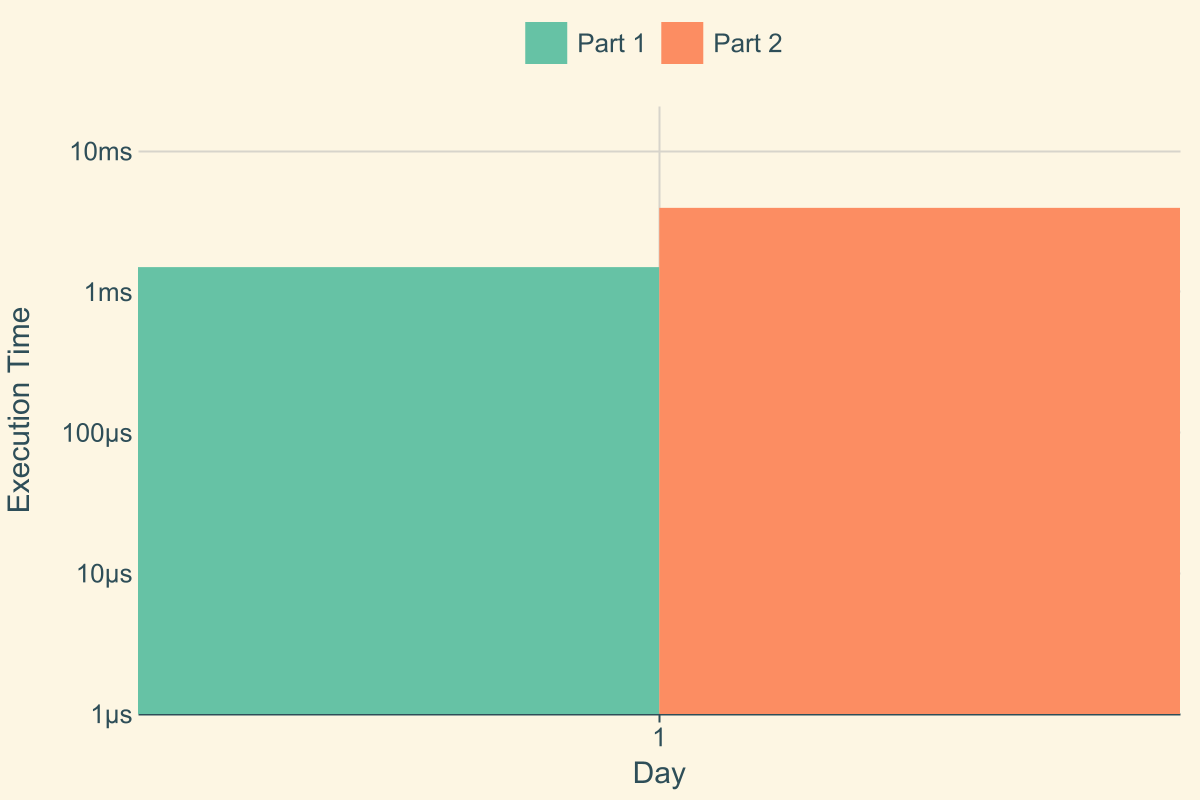
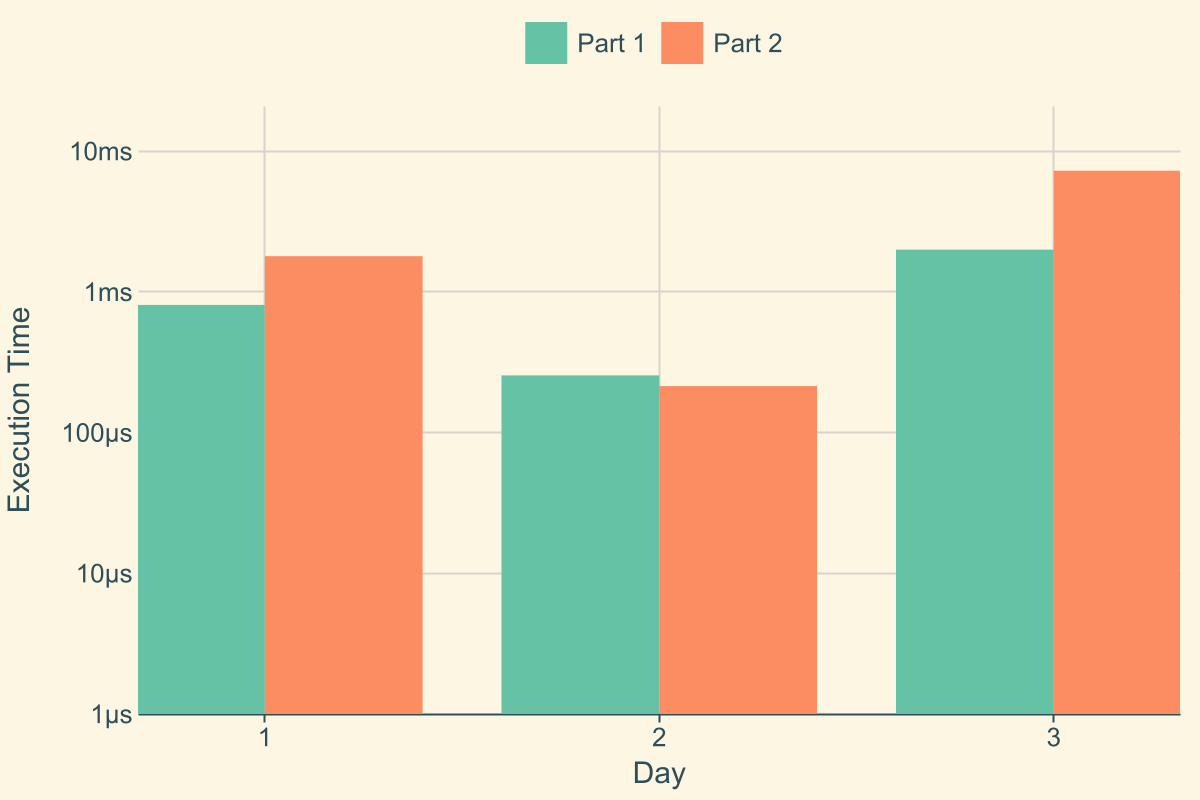
2, 3

Changed region(s): [[0.0925, 0.1875, 0.9867, 0.9375], [0.5242, 0.9062, 0.555, 0.9375]]

diff --git a/src/day03.rs b/src/day03.rs
@@ -1,0 +1,177 @@
+use std::collections::{HashMap, HashSet};
+use std::ops::{Add, Sub};
+
+use crate::harness::{Day, Part};
+
+pub fn day03() -> Day<i32, i32> {
+    Day::new(3, Box::new(Part1 {}), Box::new(Part2 {}))
+}
+
+pub struct Part1;
+
+impl Part<i32> for Part1 {
+    fn expect_test(&self) -> i32 {
+        4361
+    }
+
+    fn solve(&self, input: &[String]) -> i32 {
+        Map::from(input)
+            .get_parts_and_nonparts()
+            .iter()
+            .filter(|p| p.has_parts())
+            .map(|p| p.number)
+            .sum()
+    }
+}
+
+pub struct Part2;
+
+impl Part<i32> for Part2 {
+    fn expect_test(&self) -> i32 {
+        467835
+    }
+
+    fn solve(&self, input: &[String]) -> i32 {
+        let parts = Map::from(input).get_parts_and_nonparts();
+
+        parts.iter()
+            .flat_map(|p|
+                p.parts.iter()
+                    .clone()
+                    .filter(|&(_, part)| *part == '*')
+                    .map(|(&pos, _)| pos)
+            )
+            .collect::<HashSet<_>>()
+            .iter()
+            .map(|g|
+                parts.iter()
+                    .filter(|p| p.parts.contains_key(g))
+                    .collect::<Vec<_>>()
+            )
+            .filter(|parts| parts.len() == 2)
+            .map(|parts| parts[0].number * parts[1].number)
+            .sum()
+    }
+}
+
+struct Map {
+    raw: HashMap<Vec2, char>,
+    width: usize,
+    height: usize,
+}
+
+impl Map {
+    fn new(raw: HashMap<Vec2, char>, width: usize, height: usize) -> Self {
+        Self { raw, width, height }
+    }
+
+    fn get_parts_and_nonparts(&self) -> Vec<PartNumber> {
+        let mut current_number = String::new();
+        let mut current_parts = HashMap::new();
+
+        let mut parts = Vec::new();
+
+        for y in 0..self.height {
+            // +1 to the right edge so numbers are terminated without checking after the loop
+            for x in 0..=self.width {
+                let cur_pos = p(x as i32, y as i32);
+                let possible_cur = self.raw.get(&cur_pos);
+
+                if possible_cur.is_some() && possible_cur.unwrap().is_numeric() {
+                    let cur = *possible_cur.unwrap();
+                    current_number.push(cur);
+
+                    for d in Vec2::DIRECTIONS {
+                        let part_pos = cur_pos + d;
+                        let possible_part = self.raw.get(&part_pos);
+
+                        if let Some(&part) = possible_part {
+                            if !part.is_numeric() && part != '.' {
+                                current_parts.insert(part_pos, part);
+                            }
+                        }
+                    }
+                } else if !current_number.is_empty() {
+                    parts.push(PartNumber::new(current_number.parse::<i32>().unwrap(), current_parts));
+                    current_number = String::new();
+                    current_parts = HashMap::new();
+                }
+            }
+        }
+
+        parts
+    }
+}
+
+impl From<&[String]> for Map {
+    fn from(value: &[String]) -> Self {
+        let mut result = HashMap::new();
+
+        value.iter().enumerate().for_each(|(y, arr)| {
+            arr.chars().enumerate().for_each(|(x, c)| {
+                result.insert(p(x as i32, y as i32), c);
+            })
+        });
+
+        Map::new(result, value[0].len(), value.len())
+    }
+}
+
+const fn p(x: i32, y: i32) -> Vec2 {
+    Vec2::new(x, y)
+}
+
+#[derive(Debug, Copy, Clone, Hash, Eq, PartialEq)]
+struct Vec2 {
+    x: i32,
+    y: i32,
+}
+
+impl Vec2 {
+    pub const NORTH: Self = p(0, -1);
+    pub const NORTH_EAST: Self = p(1, -1);
+    pub const EAST: Self = p(1, 0);
+    pub const SOUTH_EAST: Self = p(1, 1);
+    pub const SOUTH: Self = p(0, 1);
+    pub const SOUTH_WEST: Self = p(-1, 1);
+    pub const WEST: Self = p(-1, 0);
+    pub const NORTH_WEST: Self = p(-1, -1);
+
+    pub const DIRECTIONS: [Self; 8] = [Self::NORTH, Self::NORTH_EAST, Self::EAST, Self::SOUTH_EAST, Self::SOUTH, Self::SOUTH_WEST, Self::WEST, Self::NORTH_WEST, ];
+
+    pub const fn new(x: i32, y: i32) -> Self {
+        Self { x, y }
+    }
+}
+
+impl Add<Vec2> for Vec2 {
+    type Output = Self;
+
+    fn add(self, rhs: Vec2) -> Self::Output {
+        p(self.x + rhs.x, self.y + rhs.y)
+    }
+}
+
+impl Sub<Vec2> for Vec2 {
+    type Output = Self;
+
+    fn sub(self, rhs: Vec2) -> Self::Output {
+        p(self.x - rhs.x, self.y - rhs.y)
+    }
+}
+
+#[derive(Debug)]
+struct PartNumber {
+    number: i32,
+    parts: HashMap<Vec2, char>,
+}
+
+impl PartNumber {
+    pub fn new(number: i32, parts: HashMap<Vec2, char>) -> Self {
+        Self { number, parts }
+    }
+
+    fn has_parts(&self) -> bool {
+        !self.parts.is_empty()
+    }
+}

diff --git a/src/day02.rs b/src/day02.rs
@@ -1,0 +1,118 @@
+use std::cmp::max;
+use std::collections::HashMap;
+use std::str::FromStr;
+
+use crate::harness::{Day, Part};
+
+pub fn day02() -> Day<i32, i32> {
+    Day::new(2, Box::new(Part1 {}), Box::new(Part2 {}))
+}
+
+pub struct Part1;
+
+impl Part<i32> for Part1 {
+    fn expect_test(&self) -> i32 {
+        8
+    }
+
+    fn solve(&self, input: &[String]) -> i32 {
+        parse(input).iter()
+            .filter(|g|
+                g.rounds.iter()
+                    .all(|r| r.red <= 12 && r.green <= 13 && r.blue <= 14)
+            )
+            .map(|g| g.id as i32)
+            .sum()
+    }
+}
+
+pub struct Part2;
+
+impl Part<i32> for Part2 {
+    fn expect_test(&self) -> i32 {
+        2286
+    }
+
+    fn solve(&self, input: &[String]) -> i32 {
+        parse(input)
+            .into_iter()
+            .map(|g|
+                g.rounds.into_iter()
+                    .reduce(|r1, r2|
+                        Round::new(
+                            max(r1.red, r2.red),
+                            max(r1.green, r2.green),
+                            max(r1.blue, r2.blue),
+                        )
+                    )
+                    .unwrap()
+            )
+            .map(|min| (min.red * min.green * min.blue) as i32)
+            .sum()
+    }
+}
+
+#[derive(Debug, Copy, Clone)]
+struct Round {
+    red: usize,
+    green: usize,
+    blue: usize,
+}
+
+impl Round {
+    pub fn new(red: usize, green: usize, blue: usize) -> Self {
+        Self { red, green, blue }
+    }
+}
+
+impl FromStr for Round {
+    type Err = ();
+
+    fn from_str(s: &str) -> Result<Self, Self::Err> {
+        let map = s
+            .split(',')
+            .map(|s| s.trim())
+            .map(|e| e.split(' ').collect::<Vec<_>>())
+            .map(|e| (e[1], e[0].parse::<usize>().unwrap()))
+            .collect::<HashMap<_, _>>();
+
+        Ok(
+            Round::new(
+                *map.get("red").unwrap_or(&0),
+                *map.get("green").unwrap_or(&0),
+                *map.get("blue").unwrap_or(&0),
+            )
+        )
+    }
+}
+
+#[derive(Debug)]
+struct Game {
+    id: usize,
+    rounds: Vec<Round>,
+}
+
+impl Game {
+    pub fn new(id: usize, rounds: Vec<Round>) -> Self {
+        Self { id, rounds }
+    }
+}
+
+impl FromStr for Game {
+    type Err = ();
+
+    fn from_str(s: &str) -> Result<Self, Self::Err> {
+        let option = s.split_once(':').unwrap();
+        let id = option.0.split(' ').last().unwrap().parse::<usize>().unwrap();
+        let rounds = option.1.split(';').map(Round::from_str).collect::<Result<Vec<_>, ()>>().unwrap();
+        Ok(Game::new(id, rounds))
+    }
+}
+
+fn parse(input: &[String]) -> Vec<Game> {
+    input.iter()
+        .filter(|l| !l.is_empty())
+        .map(|l| Game::from_str(l))
+        .collect::<Result<Vec<Game>, ()>>()
+        .unwrap()
+}

diff --git a/src/main.rs b/src/main.rs
@@ -11,8 +11,8 @@ use std::process::{Command, ExitStatus, Stdio};
 use std::time::Duration;
 
 use crate::day01::day01;
-// use crate::day02::day02;
-// use crate::day03::day03;
+use crate::day02::day02;
+use crate::day03::day03;
 // use crate::day04::day04;
 // use crate::day05::day05;
 // use crate::day06::day06;
@@ -39,8 +39,8 @@ use crate::harness::{AocResult, Day};
 
 mod harness;
 mod day01;
-// mod day02;
-// mod day03;
+mod day02;
+mod day03;
 // mod day04;
 // mod day05;
 // mod day06;
@@ -67,8 +67,8 @@ mod day01;
 fn main() {
     let days = vec![
         day01().f(),
-        // day02().f(),
-        // day03().f(),
+        day02().f(),
+        day03().f(),
         // day04().f(),
         // day05().f(),
         // day06().f(),

diff --git a/src/day01.rs b/src/day01.rs
@@ -11,7 +11,7 @@ impl Part<i32> for Part1 {
         142
     }
 
-    fn solve(&self, input: &Vec<String>) -> i32 {
+    fn solve(&self, input: &[String]) -> i32 {
         solve(input, &(1..=9).map(|i| i.to_string()).collect::<Vec<_>>())
     }
 }
@@ -23,7 +23,7 @@ impl Part<i32> for Part2 {
         281
     }
 
-    fn solve(&self, input: &Vec<String>) -> i32 {
+    fn solve(&self, input: &[String]) -> i32 {
         solve(input, &DIGITS.into_iter().map(|s| s.to_string()).collect::<Vec<_>>())
     }
 }

diff --git a/src/harness.rs b/src/harness.rs
@@ -13,7 +13,7 @@ impl<T: Debug + PartialEq> AocResult for T {}
 
 pub trait Part<R: AocResult> {
     fn expect_test(&self) -> R;
-    fn solve(&self, input: &Vec<String>) -> R;
+    fn solve(&self, input: &[String]) -> R;
 }
 
 pub struct Day<R1: AocResult, R2: AocResult> {
